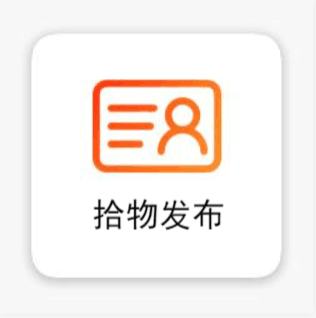
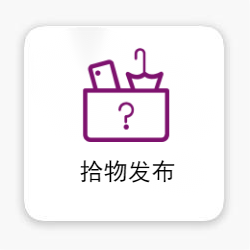
更新图片 美化页面布局
--story=1005014 --user=qinyinchang

diff --git a/miniprogram/pages/create/create.js b/miniprogram/pages/create/create.js
@@ -5,9 +5,9 @@ Page({
    * 页面的初始数据
    */
   data: {
-    img_src1: "../../images/find_something.png",
-    img_src2: "../../images/lost_something.png",
-    style: 'width: 350rpx; height: 350rpx;'
+    img_src1: "../../images/lost_something.png",
+    img_src2: "../../images/find_something.png",
+    style: 'width: 300rpx; height: 300rpx;'
   },
 
   /**
